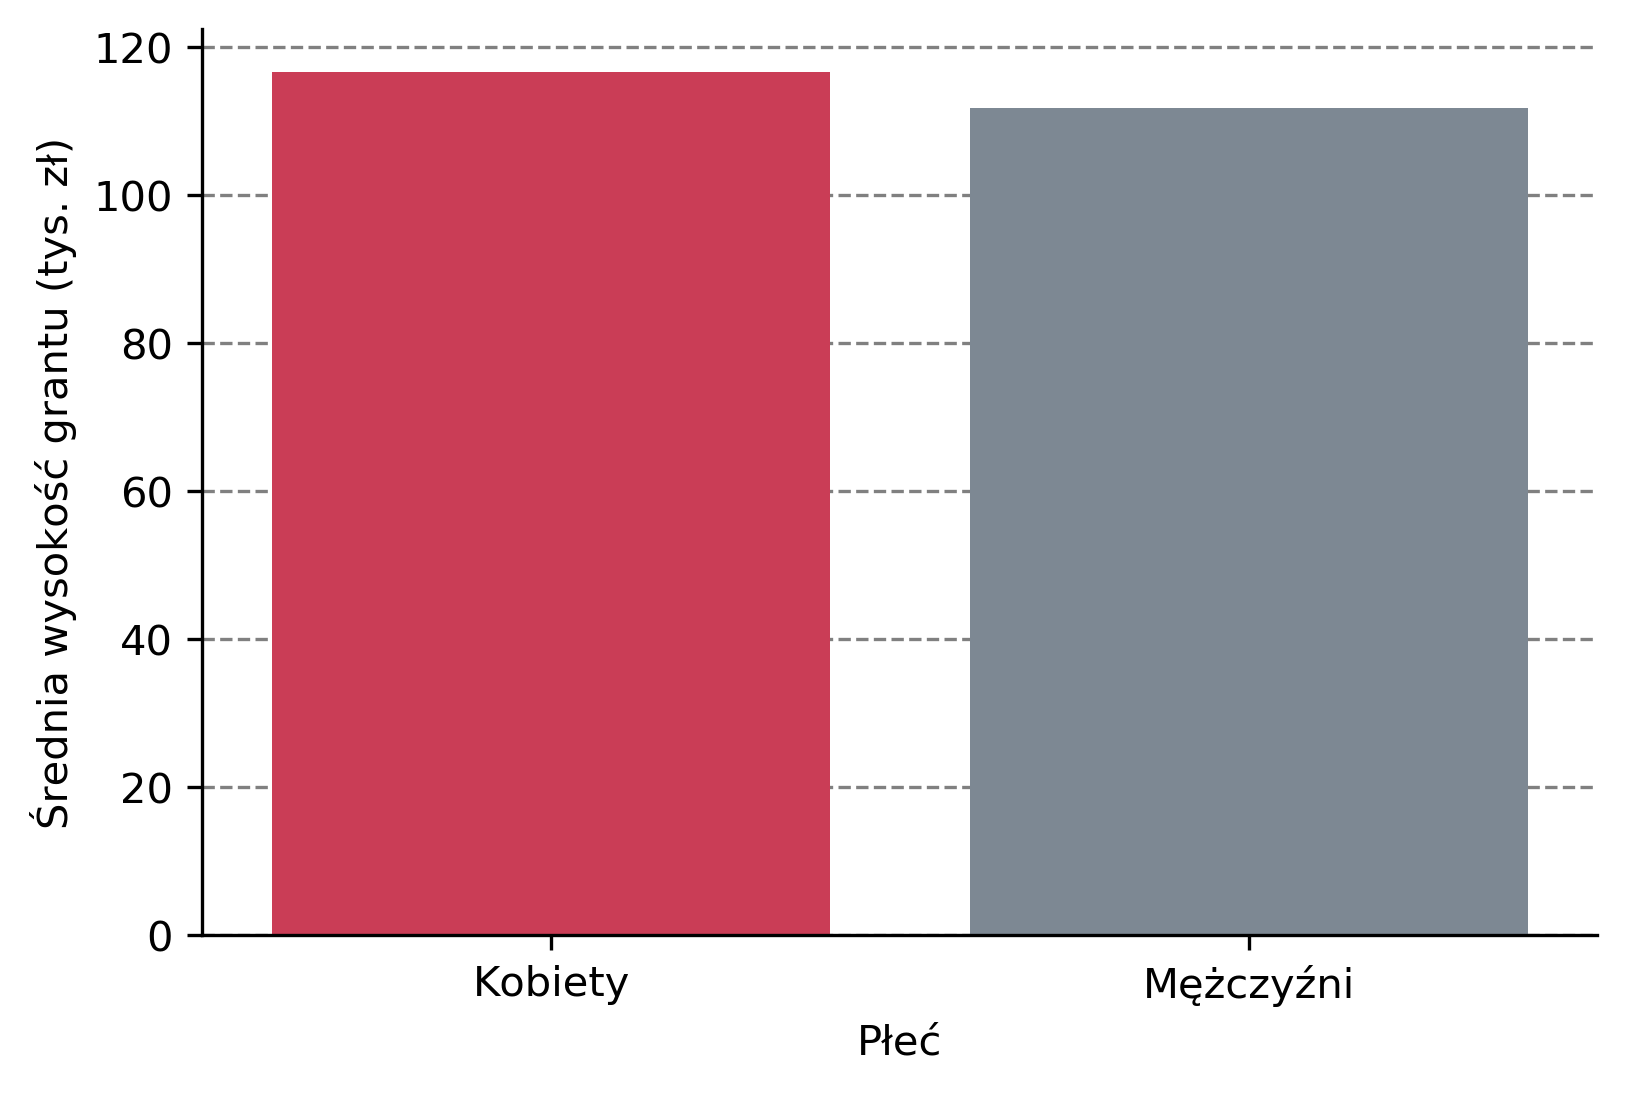
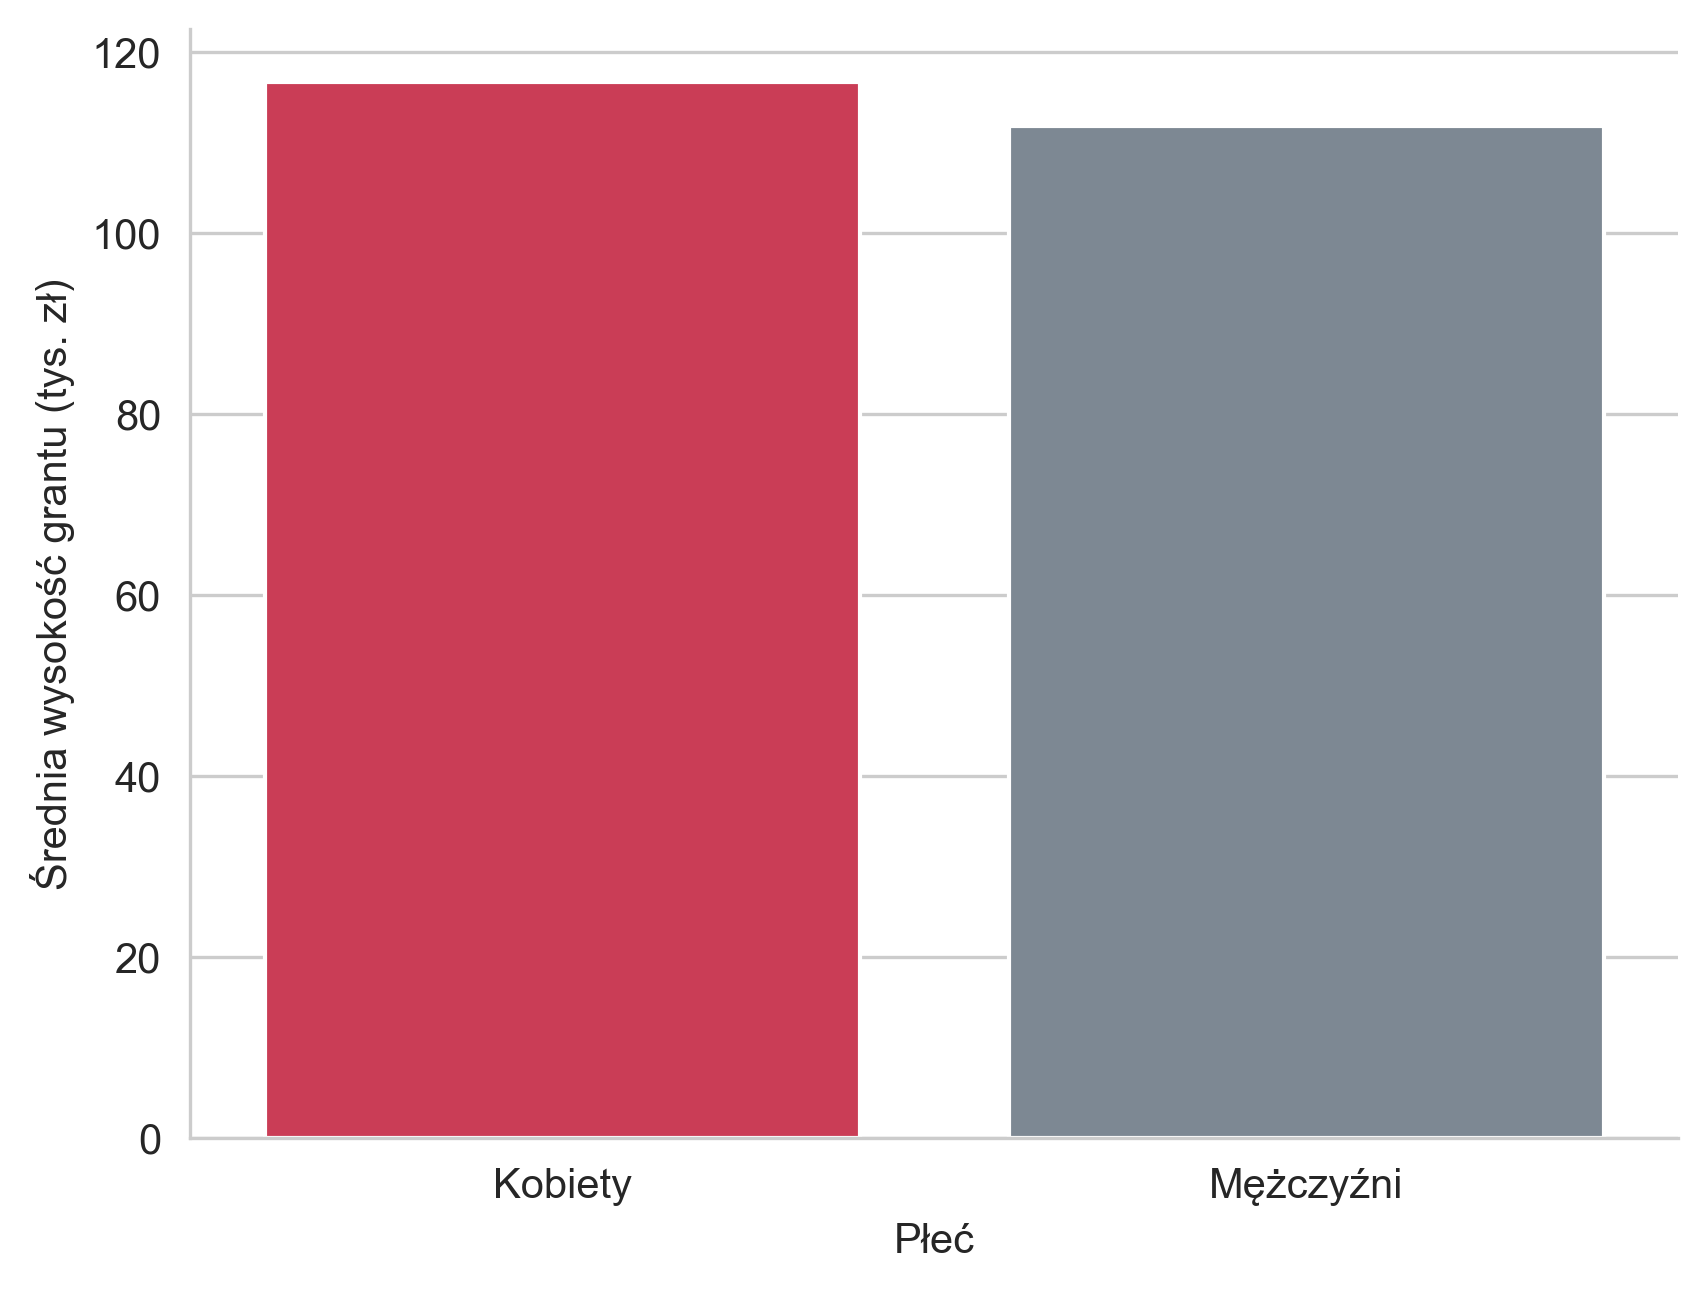
Sex comparison corrected

diff --git a/male_female_comparison/chart.py b/male_female_comparison/chart.py
@@ -137,7 +137,7 @@ budget_by_sex['MeanBudget'] = \
     budget_by_sex['MeanBudget'] / 1000
 
 import matplotlib.pyplot as plt
-
+sns.set_style("whitegrid")
 sns.barplot(x = 'Sex', y = 'MeanBudget', \
     palette = ['#E12647', '#798897'], \
     data = budget_by_sex)
@@ -149,10 +149,48 @@ ax = plt.gca()
 ax.spines['top'].set_visible(False)
 ax.spines['right'].set_visible(False)
 
-ax.set_axisbelow(True)
-ax.yaxis.grid(color='gray', linestyle='dashed')
+# ax.set_axisbelow(True)
+# ax.yaxis.grid(color='gray', linestyle='dashed')
 
 plt.savefig('budget_by_sex_bar_v2.png', \
+    format = 'png', bbox_inches='tight', \
+    transparent = True, dpi = 300)
+
+# %%
+budget_by_sex = df\
+    .groupby(['Sex'])\
+    .mean()\
+    .budget\
+    .rename('MeanBudget')\
+    .reset_index(drop = False)
+budget_by_sex['Sex'] = \
+    np.where(budget_by_sex['Sex'] == 'Male', \
+        'Mężczyźni', \
+        'Kobiety')
+
+budget_by_sex['MeanBudget'] = \
+    budget_by_sex['MeanBudget'] / 1000
+
+import matplotlib.pyplot as plt
+sns.reset_defaults()
+# sns.set_style("whitegrid")
+sns.barplot(x = 'Sex', y = 'MeanBudget', \
+    palette = ['#E12647', '#798897'], \
+    data = budget_by_sex)
+
+plt.xlabel('Płeć')
+plt.ylabel('Średnia wysokość grantu (tys. zł)')
+
+ax = plt.gca()
+sns.despine(left = True, top = True, right = True)
+ax.spines['bottom'].set_color('gray')
+
+ax.set_axisbelow(True)
+ax.yaxis.grid(color='gray', linestyle='solid')
+
+ax.tick_params(axis='both', which='both', length=0)
+
+plt.savefig('budget_by_sex_bar_v3.png', \
     format = 'png', bbox_inches='tight', \
     transparent = True, dpi = 300)
 
